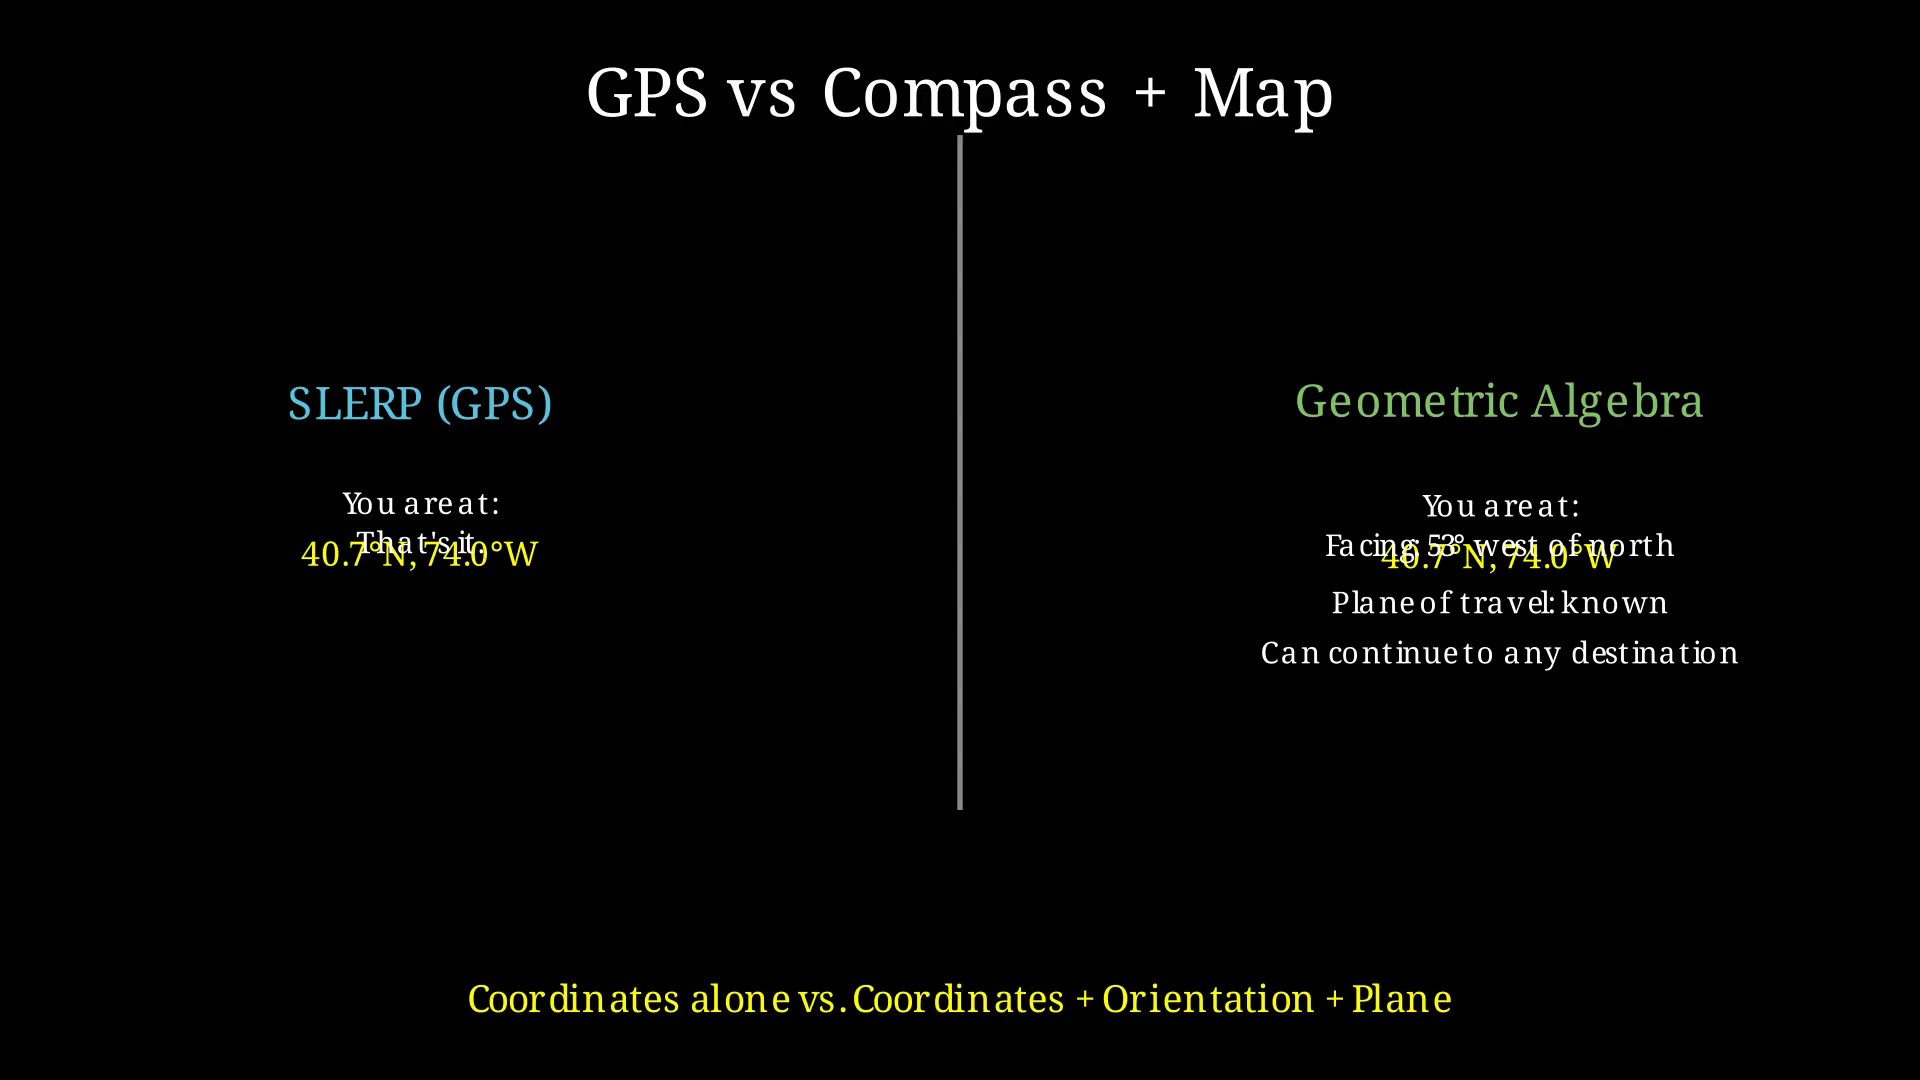
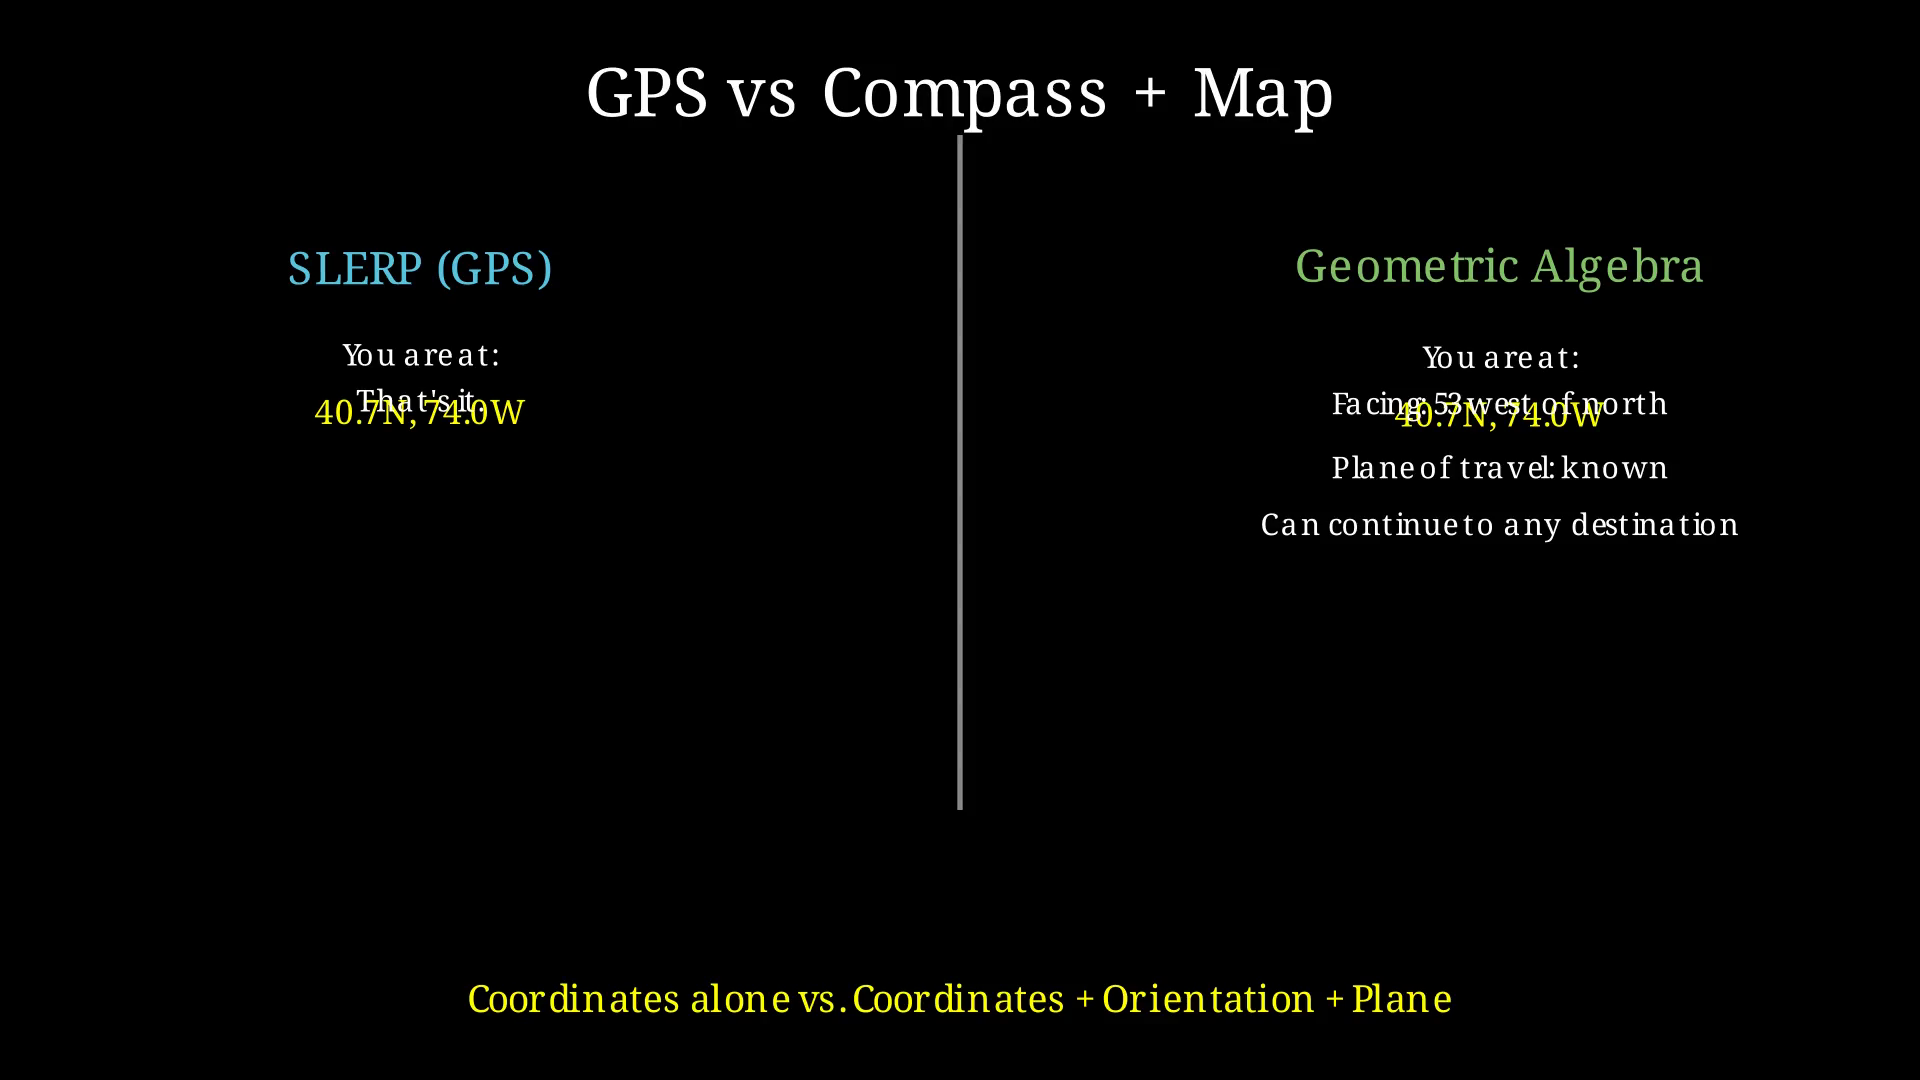
Fix GPS vs Compass visualization layout
- Move titles higher up (UP*1 to UP*2) to create more vertical space
- Increase buffer between title and description
- Remove degree symbols for cleaner rendering
- Coordinates are now clearly visible without overlap
- Rerender and update Scene5_GPSvsCompass.png

diff --git a/visualizations/ch2_traveling_world.py b/visualizations/ch2_traveling_world.py
@@ -188,27 +188,27 @@ class Scene5_GPSvsCompass(Scene):
         self.play(Write(title))
 
         # Left side: SLERP / GPS
-        slerp_title = Text("SLERP (GPS)", font_size=24, color=BLUE).shift(LEFT * 4 + UP * 1)
+        slerp_title = Text("SLERP (GPS)", font_size=24, color=BLUE).shift(LEFT * 4 + UP * 2)
         slerp_desc = VGroup(
             Text("You are at:", font_size=16),
-            Text("40.7°N, 74.0°W", font_size=18, color=YELLOW),
+            Text("40.7N, 74.0W", font_size=18, color=YELLOW),
             Text("", font_size=12),
             Text("That's it.", font_size=16),
-        ).arrange(DOWN, buff=0.2).next_to(slerp_title, DOWN, buff=0.5)
+        ).arrange(DOWN, buff=0.25).next_to(slerp_title, DOWN, buff=0.4)
 
         self.play(Write(slerp_title))
         self.play(Write(slerp_desc))
 
         # Right side: GA / Compass
-        ga_title = Text("Geometric Algebra", font_size=24, color=GREEN).shift(RIGHT * 4 + UP * 1)
+        ga_title = Text("Geometric Algebra", font_size=24, color=GREEN).shift(RIGHT * 4 + UP * 2)
         ga_desc = VGroup(
             Text("You are at:", font_size=16),
-            Text("40.7°N, 74.0°W", font_size=18, color=YELLOW),
+            Text("40.7N, 74.0W", font_size=18, color=YELLOW),
             Text("", font_size=12),
-            Text("Facing: 53° west of north", font_size=16),
+            Text("Facing: 53 west of north", font_size=16),
             Text("Plane of travel: known", font_size=16),
             Text("Can continue to any destination", font_size=16),
-        ).arrange(DOWN, buff=0.2).next_to(ga_title, DOWN, buff=0.5)
+        ).arrange(DOWN, buff=0.25).next_to(ga_title, DOWN, buff=0.4)
 
         self.play(Write(ga_title))
         self.play(Write(ga_desc))
